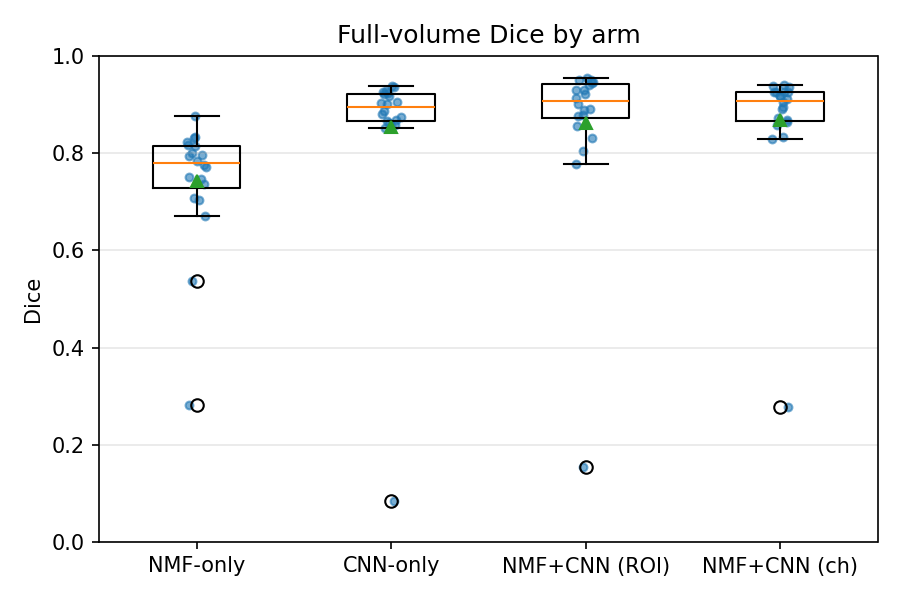
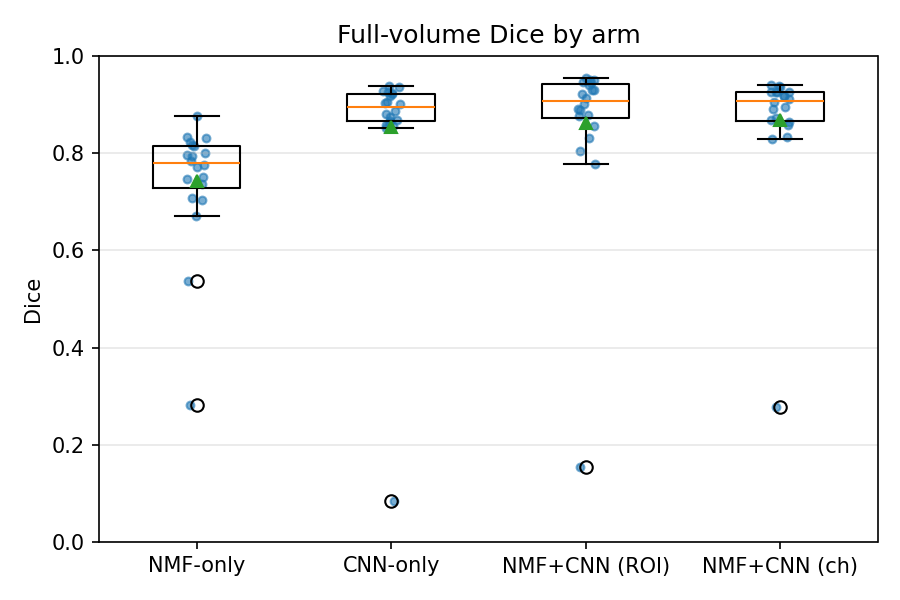
Add cost benchmark

diff --git a/comparison/cost_benchmark.py b/comparison/cost_benchmark.py
@@ -1,0 +1,236 @@
+"""
+Computational-cost benchmark for the four approaches (CPU-only).
+
+Measures, on the current machine, the costs that distinguish the approaches and
+substantiates the "NMF adds negligible computational cost" claim by SHOWING it:
+
+  - shared preprocessing + base NMF feature extraction (one-time, per volume),
+  - the extra NMF computation each hybrid adds (ROI localization / channel maps),
+  - model training time,
+  - inference time per volume.
+
+Writes a Markdown table to  comparison/results/cost_table.md  and prints it.
+
+    python comparison/cost_benchmark.py                 # default benchmark (F5-friendly)
+    python comparison/cost_benchmark.py --time-epochs 5 # more epochs for the CNN timing
+    python comparison/cost_benchmark.py --nmf-patients 5 --skip-preprocess
+
+Notes on reproducibility:
+  * CNN per-epoch training time is measured over a few epochs on a small subset of
+    the fold-0 training patients, scaled to the full training set by the number of
+    slices, and extrapolated to the full 40-epoch x 5-fold budget (clearly labelled
+    "extrapolated"). The three CNN arms are measured on the same subset, so their
+    relative training cost is directly comparable.
+  * Everything else is measured directly.
+  * Absolute times are hardware-dependent; the informative quantity is the RELATIVE
+    cost -- the NMF overhead vs. the U-Net training.
+"""
+import os
+import sys
+import time
+import argparse
+import warnings
+
+# Import torch first: on Windows, loading the scientific stack (numpy/SimpleITK/
+# skimage/...) before torch can intermittently trigger a c10.dll init failure
+# (WinError 1114) under memory pressure. Loading torch first avoids it.
+import torch  # noqa: F401,E402
+
+import numpy as np
+from sklearn.exceptions import ConvergenceWarning
+
+sys.path.insert(0, os.path.dirname(os.path.abspath(__file__)))
+import common_data as cd            # noqa: E402
+import cnn_core                     # noqa: E402
+import nmf_roi                      # noqa: E402
+import nmf_channels                 # noqa: E402
+import liver_nmf_segmentation as L  # noqa: E402
+
+warnings.filterwarnings("ignore", category=ConvergenceWarning)  # light NMF (max_iter=200)
+
+FULL_EPOCHS = 40
+N_FOLDS = 5
+
+
+def _mean(xs):
+    return float(np.mean(xs)) if len(xs) else float("nan")
+
+
+def _fmt(sec):
+    """Human-readable duration."""
+    if sec != sec:               # NaN
+        return "n/a"
+    if sec < 1:
+        return f"{sec*1000:.0f} ms"
+    if sec < 90:
+        return f"{sec:.1f} s"
+    return f"{sec/60:.1f} min"
+
+
+# --------------------------------------------------------------------------
+#  Individual measurements
+# --------------------------------------------------------------------------
+def time_preprocess(patient):
+    """Shared preprocessing + base NMF feature extraction for ONE volume."""
+    t = time.perf_counter()
+    L.build_patient(patient, k=L.K)
+    return time.perf_counter() - t
+
+
+def time_nmf_overhead(slices, patients):
+    """Extra NMF computation the hybrids add: ROI box + channel maps (per volume)."""
+    roi, maps = [], []
+    for p in patients:
+        t = time.perf_counter()
+        nmf_roi.roi_for_patient(slices[p], patient=p, use_cache=False)
+        roi.append(time.perf_counter() - t)
+        t = time.perf_counter()
+        nmf_channels.channels_for_patient(slices[p], patient=p, use_cache=False)
+        maps.append(time.perf_counter() - t)
+    return _mean(roi), _mean(maps)
+
+
+def time_nmf_pipeline(cache, names, train_p, test_p):
+    """NMF-only: classifier+gate training (per fold) and inference (per volume)."""
+    t = time.perf_counter()
+    pix, gate, ac, gthr, k = L.train_pipeline(cache, names, train_p)
+    train_t = time.perf_counter() - t
+    inf = []
+    for p in test_p:
+        t = time.perf_counter()
+        L.patient_dice(pix, gate, cache, p, ac, gthr, k)
+        inf.append(time.perf_counter() - t)
+    return train_t, _mean(inf)
+
+
+def time_cnn(slices, train_p, test_p, rois, channels, time_epochs):
+    """A CNN arm: measured per-epoch training time and per-volume inference time.
+
+    rois / channels : dict patient->bbox / patient->list(maps), or None.
+    """
+    cfg = dict(cnn_core.DEFAULT_CFG)
+    cfg["epochs"] = time_epochs
+    samples = cnn_core._build_samples(slices, train_p, rois, channels)
+    t = time.perf_counter()
+    model = cnn_core.train_unet(samples, cfg, log=lambda *a, **k: None)
+    per_epoch = (time.perf_counter() - t) / max(time_epochs, 1)
+    inf = []
+    for p in test_p:
+        bbox = rois.get(p) if rois else None
+        extras = channels.get(p) if channels else None
+        t = time.perf_counter()
+        cnn_core.predict_patient(model, slices[p], bbox, cfg, extras=extras)
+        inf.append(time.perf_counter() - t)
+    return per_epoch, _mean(inf)
+
+
+# --------------------------------------------------------------------------
+#  Main
+# --------------------------------------------------------------------------
+def main():
+    ap = argparse.ArgumentParser()
+    ap.add_argument("--time-epochs", type=int, default=3,
+                    help="epochs used to measure CNN per-epoch time (default 3)")
+    ap.add_argument("--nmf-patients", type=int, default=3,
+                    help="how many patients to average the NMF/inference timings over")
+    ap.add_argument("--train-subset", type=int, default=4,
+                    help="patients used to measure CNN per-epoch time, scaled to the "
+                         "full training set by slice count (default 4)")
+    ap.add_argument("--skip-preprocess", action="store_true",
+                    help="skip the (slow) per-volume preprocessing measurement")
+    a = ap.parse_args()
+
+    print("Loading cached slices + features ...", flush=True)
+    slices = cd.load_slices(cd.ALL20)
+    cache, names, _ = L.cache_patients(cd.ALL20)
+    folds = cd.make_folds()
+    test_p = folds[0]
+    train_p = [p for p in cd.ALL20 if p not in test_p]
+    sample_p = cd.ALL20[:a.nmf_patients]
+
+    # CNN per-epoch time is measured on a subset of train patients, then scaled to the
+    # full training set by the ratio of training slices (training cost is ~linear in
+    # the number of slices).
+    cnn_train_p = train_p[:a.train_subset]
+    subset_slices = sum(len(slices[p]) for p in cnn_train_p)
+    full_slices = sum(len(slices[p]) for p in train_p)
+    scale = (full_slices / subset_slices) if subset_slices else 1.0
+
+    # pre-compute ROIs / channel maps (cached) for the fold-0 patients
+    print("Preparing NMF ROIs and channel maps (cached) ...", flush=True)
+    used = sorted(set(train_p) | set(test_p), key=int)
+    rois = {p: nmf_roi.roi_for_patient(slices[p], patient=p) for p in used}
+    chans = {p: nmf_channels.channels_for_patient(slices[p], patient=p) for p in used}
+
+    # --- shared preprocessing (one volume) ---
+    prep = float("nan")
+    if not a.skip_preprocess:
+        print(f"Timing shared preprocessing on patient {sample_p[0]} ...", flush=True)
+        prep = time_preprocess(sample_p[0])
+
+    # --- extra NMF overhead (per volume) ---
+    print(f"Timing NMF ROI / channel-map computation on {len(sample_p)} volumes ...",
+          flush=True)
+    roi_t, map_t = time_nmf_overhead(slices, sample_p)
+
+    # --- NMF-only pipeline ---
+    print("Timing NMF-only training + inference ...", flush=True)
+    nmf_train, nmf_inf = time_nmf_pipeline(cache, names, train_p, test_p)
+
+    # --- CNN arms (per-epoch measured on the train subset) ---
+    # Warm up torch first (one-time thread-pool / kernel init) so the first arm is
+    # not penalised and the three arms are directly comparable.
+    print("Warming up torch ...", flush=True)
+    _warm = cnn_core._build_samples(slices, cnn_train_p[:1], None, None)
+    cnn_core.train_unet(_warm, {**cnn_core.DEFAULT_CFG, "epochs": 1},
+                        log=lambda *x, **k: None)
+
+    def run_cnn(tag, r, c):
+        print(f"Timing CNN training ({a.time_epochs} epochs, {len(cnn_train_p)} "
+              f"patients) + inference: {tag} ...", flush=True)
+        return time_cnn(slices, cnn_train_p, test_p, r, c, a.time_epochs)
+    cnn_pe, cnn_inf = run_cnn("CNN-only", None, None)
+    roi_pe, roi_inf = run_cnn("NMF+CNN (ROI)", rois, None)
+    ch_pe, ch_inf = run_cnn("NMF+CNN (channels)", None, chans)
+
+    def epoch_full(pe):          # scale subset per-epoch to the full training set
+        return pe * scale
+
+    def full_train(pe):          # full 40-epoch x 5-fold budget (extrapolated)
+        return epoch_full(pe) * FULL_EPOCHS * N_FOLDS
+
+    # --- assemble table ---
+    lines = [
+        "# Computational cost (CPU-only)\n",
+        f"Measured on this machine. CNN per-epoch training time is measured over "
+        f"{a.time_epochs} epochs on {len(cnn_train_p)} training patients, scaled to the "
+        f"full {len(train_p)}-patient training set, and extrapolated to the full "
+        f"{FULL_EPOCHS}-epoch x {N_FOLDS}-fold budget. Inference is per volume "
+        f"(averaged over {len(test_p)} held-out patients). NMF overhead is averaged "
+        f"over {len(sample_p)} volumes.\n",
+        f"Shared preprocessing + base NMF feature extraction: **{_fmt(prep)} per volume** "
+        "(one-time, cached; identical for all approaches).\n",
+        "| Approach | Extra NMF computation (per volume) | Model training | Inference (per volume) |",
+        "|----------|-----------------------------------|----------------|------------------------|",
+        f"| NMF-only | - (uses the shared features) | {_fmt(nmf_train)} per fold "
+        f"({_fmt(nmf_train*N_FOLDS)} full CV) | {_fmt(nmf_inf)} |",
+        f"| CNN-only | - | {_fmt(epoch_full(cnn_pe))}/epoch -> {_fmt(full_train(cnn_pe))} "
+        f"(extrap.) | {_fmt(cnn_inf)} |",
+        f"| NMF+CNN (ROI) | ROI localization: {_fmt(roi_t)} | {_fmt(epoch_full(roi_pe))}"
+        f"/epoch -> {_fmt(full_train(roi_pe))} (extrap.) | {_fmt(roi_inf)} |",
+        f"| NMF+CNN (channels) | channel maps: {_fmt(map_t)} | {_fmt(epoch_full(ch_pe))}"
+        f"/epoch -> {_fmt(full_train(ch_pe))} (extrap.) | {_fmt(ch_inf)} |",
+        "\n_The extra NMF computation is unsupervised, one-time and cached; it is a "
+        "few seconds per volume against minutes of U-Net training, and the three "
+        "CNN arms train in essentially the same time -- i.e. NMF adds negligible cost._\n",
+    ]
+    out = "\n".join(lines)
+    path = os.path.join(cd.RESULTS_DIR, "cost_table.md")
+    with open(path, "w", encoding="utf-8") as fh:
+        fh.write(out)
+    print("\n" + out)
+    print(f"wrote {path}")
+
+
+if __name__ == "__main__":
+    main()

diff --git a/comparison/evaluate.py b/comparison/evaluate.py
@@ -70,6 +70,23 @@ def wilcoxon(a, b):
         return None
 
 
+def holm_bonferroni(pvals):
+    """Holm-Bonferroni step-down adjusted p-values, returned in input order.
+
+    Controls the family-wise error rate over the set of pairwise comparisons
+    (less conservative than plain Bonferroni). Adjusted values are capped at 1
+    and made monotonic non-decreasing along the sorted p-values.
+    """
+    p = np.asarray(pvals, float)
+    m = len(p)
+    adj = np.ones(m, float)
+    prev = 0.0
+    for rank, idx in enumerate(np.argsort(p)):          # smallest -> largest
+        prev = max(prev, min((m - rank) * p[idx], 1.0))  # enforce monotonicity
+        adj[idx] = prev
+    return adj
+
+
 def main():
     present = [(k, name) for k, name in ARMS if load_arm(k) is not None]
     if not present:
@@ -96,20 +113,28 @@ def main():
                      f"| {sl['mean']:.3f} +/- {sl['std']:.3f} "
                      f"| {sf['median']:.3f} | {sf['min']:.3f} | {sf['ge70']}/{sf['n']} |")
 
-    # ---- paired significance ----
-    lines += ["\n## Paired Wilcoxon signed-rank (full-volume Dice)\n",
-              "| Comparison | median diff | p-value |",
-              "|------------|-------------|---------|"]
+    # ---- paired significance (Holm-Bonferroni corrected for the multiple
+    #      pairwise comparisons) ----
     keys = [k for k, _ in present]
     names = {k: n for k, n in present}
+    comps = []
     for i in range(len(keys)):
         for j in range(i + 1, len(keys)):
-            a, b = keys[i], keys[j]
-            res = wilcoxon(full[a], full[b])
+            res = wilcoxon(full[keys[i]], full[keys[j]])
             if res is None:
                 continue
             _, p, md = res
-            lines.append(f"| {names[a]} vs {names[b]} | {md:+.3f} | {p:.4f} |")
+            comps.append((f"{names[keys[i]]} vs {names[keys[j]]}", md, p))
+
+    holm = holm_bonferroni([p for _, _, p in comps]) if comps else []
+
+    lines += ["\n## Paired Wilcoxon signed-rank (full-volume Dice)\n",
+              f"Holm-Bonferroni adjusts for the {len(comps)} pairwise "
+              "comparisons; significance is assessed on the adjusted p-values.\n",
+              "| Comparison | median diff | p-value | Holm-adj. p |",
+              "|------------|-------------|---------|-------------|"]
+    for (name, md, p), pa in zip(comps, holm):
+        lines.append(f"| {name} | {md:+.3f} | {p:.4f} | {pa:.4f} |")
 
     table_md = "\n".join(lines) + "\n"
     with open(os.path.join(cd.RESULTS_DIR, "table.md"), "w") as fh:

diff --git a/comparison/results/cost_table.md b/comparison/results/cost_table.md
@@ -1,0 +1,14 @@
+# Computational cost (CPU-only)
+
+Measured on this machine. CNN per-epoch training time is measured over 3 epochs on 4 training patients, scaled to the full 16-patient training set, and extrapolated to the full 40-epoch x 5-fold budget. Inference is per volume (averaged over 4 held-out patients). NMF overhead is averaged over 3 volumes.
+
+Shared preprocessing + base NMF feature extraction: **80.9 s per volume** (one-time, cached; identical for all approaches).
+
+| Approach | Extra NMF computation (per volume) | Model training | Inference (per volume) |
+|----------|-----------------------------------|----------------|------------------------|
+| NMF-only | - (uses the shared features) | 2.7 min per fold (13.4 min full CV) | 9.3 s |
+| CNN-only | - | 37.8 s/epoch -> 126.0 min (extrap.) | 1.9 s |
+| NMF+CNN (ROI) | ROI localization: 17.4 s | 31.9 s/epoch -> 106.3 min (extrap.) | 1.7 s |
+| NMF+CNN (channels) | channel maps: 17.2 s | 34.2 s/epoch -> 114.0 min (extrap.) | 2.7 s |
+
+_The extra NMF computation is unsupervised, one-time and cached; it is a few seconds per volume against minutes of U-Net training, and the three CNN arms train in essentially the same time -- i.e. NMF adds negligible cost._

diff --git a/comparison/results/summary.md b/comparison/results/summary.md
@@ -11,11 +11,13 @@ Shared patients: n = 20
 
 ## Paired Wilcoxon signed-rank (full-volume Dice)
 
-| Comparison | median diff | p-value |
-|------------|-------------|---------|
-| NMF-only vs CNN-only | -0.110 | 0.0006 |
-| NMF-only vs NMF+CNN (ROI) | -0.117 | 0.0001 |
-| NMF-only vs NMF+CNN (ch) | -0.115 | 0.0000 |
-| CNN-only vs NMF+CNN (ROI) | -0.012 | 0.4749 |
-| CNN-only vs NMF+CNN (ch) | -0.002 | 0.5459 |
-| NMF+CNN (ROI) vs NMF+CNN (ch) | +0.007 | 0.8408 |
+Holm-Bonferroni adjusts for the 6 pairwise comparisons; significance is assessed on the adjusted p-values.
+
+| Comparison | median diff | p-value | Holm-adj. p |
+|------------|-------------|---------|-------------|
+| NMF-only vs CNN-only | -0.110 | 0.0006 | 0.0023 |
+| NMF-only vs NMF+CNN (ROI) | -0.117 | 0.0001 | 0.0005 |
+| NMF-only vs NMF+CNN (ch) | -0.115 | 0.0000 | 0.0000 |
+| CNN-only vs NMF+CNN (ROI) | -0.012 | 0.4749 | 1.0000 |
+| CNN-only vs NMF+CNN (ch) | -0.002 | 0.5459 | 1.0000 |
+| NMF+CNN (ROI) vs NMF+CNN (ch) | +0.007 | 0.8408 | 1.0000 |

diff --git a/comparison/results/table.md b/comparison/results/table.md
@@ -11,11 +11,13 @@ Shared patients: n = 20
 
 ## Paired Wilcoxon signed-rank (full-volume Dice)
 
-| Comparison | median diff | p-value |
-|------------|-------------|---------|
-| NMF-only vs CNN-only | -0.110 | 0.0006 |
-| NMF-only vs NMF+CNN (ROI) | -0.117 | 0.0001 |
-| NMF-only vs NMF+CNN (ch) | -0.115 | 0.0000 |
-| CNN-only vs NMF+CNN (ROI) | -0.012 | 0.4749 |
-| CNN-only vs NMF+CNN (ch) | -0.002 | 0.5459 |
-| NMF+CNN (ROI) vs NMF+CNN (ch) | +0.007 | 0.8408 |
+Holm-Bonferroni adjusts for the 6 pairwise comparisons; significance is assessed on the adjusted p-values.
+
+| Comparison | median diff | p-value | Holm-adj. p |
+|------------|-------------|---------|-------------|
+| NMF-only vs CNN-only | -0.110 | 0.0006 | 0.0023 |
+| NMF-only vs NMF+CNN (ROI) | -0.117 | 0.0001 | 0.0005 |
+| NMF-only vs NMF+CNN (ch) | -0.115 | 0.0000 | 0.0000 |
+| CNN-only vs NMF+CNN (ROI) | -0.012 | 0.4749 | 1.0000 |
+| CNN-only vs NMF+CNN (ch) | -0.002 | 0.5459 | 1.0000 |
+| NMF+CNN (ROI) vs NMF+CNN (ch) | +0.007 | 0.8408 | 1.0000 |
